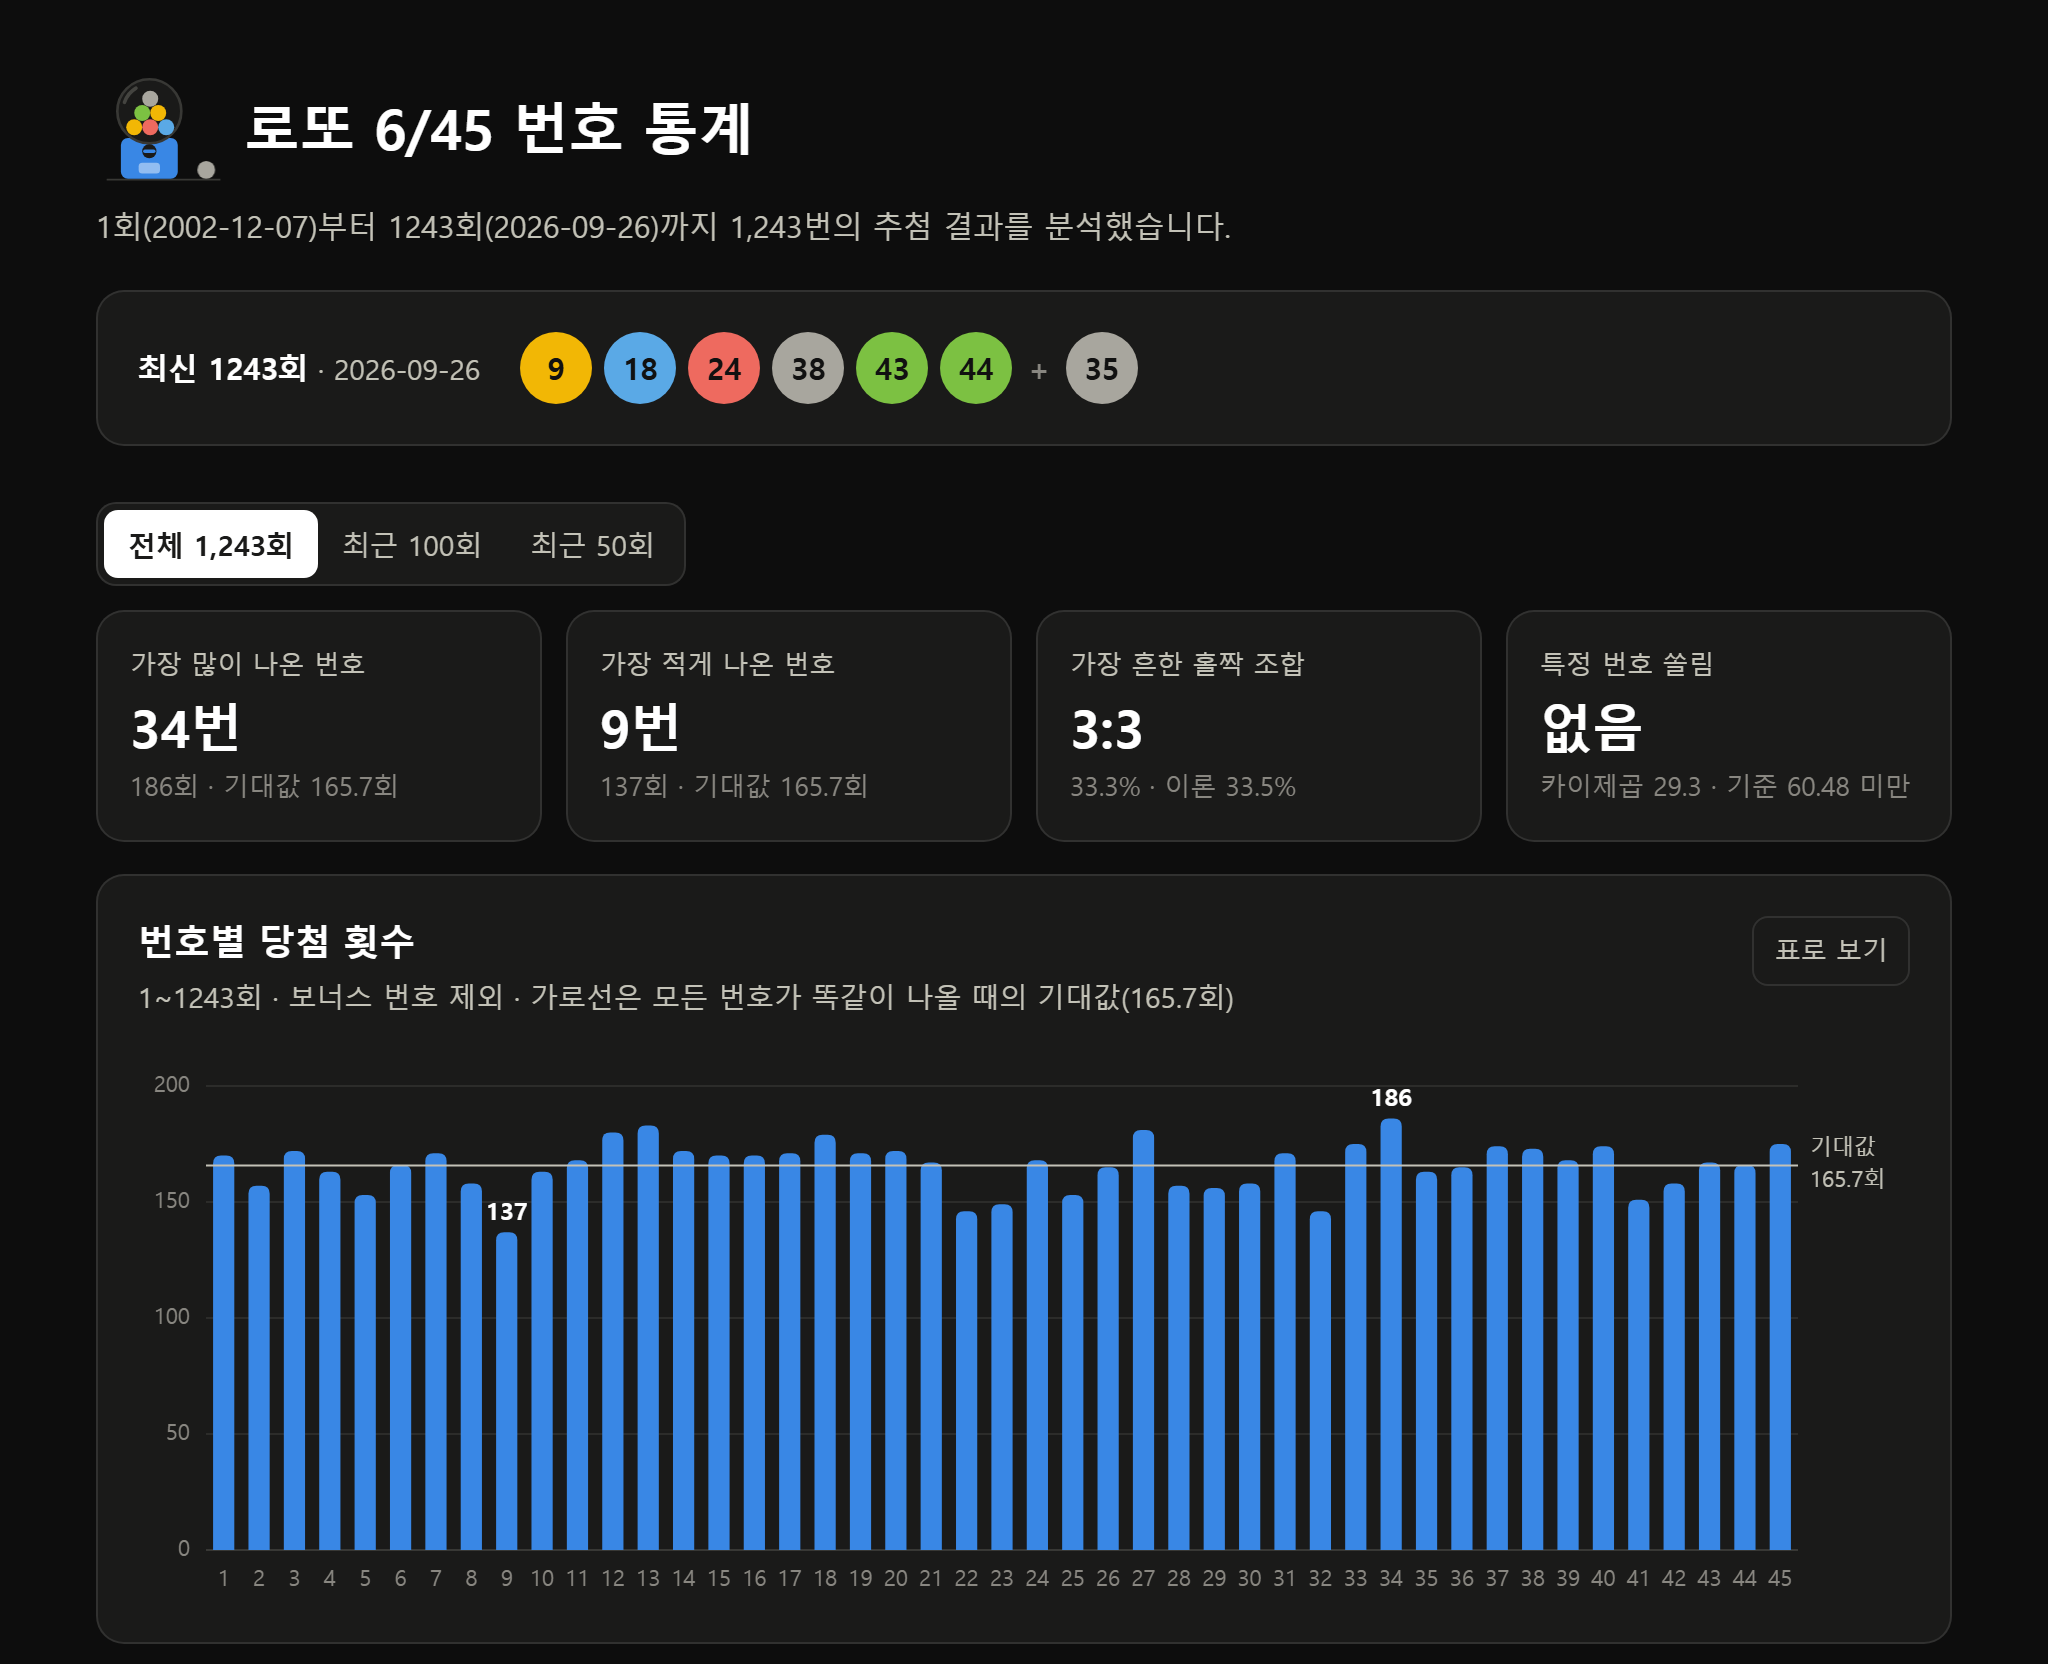
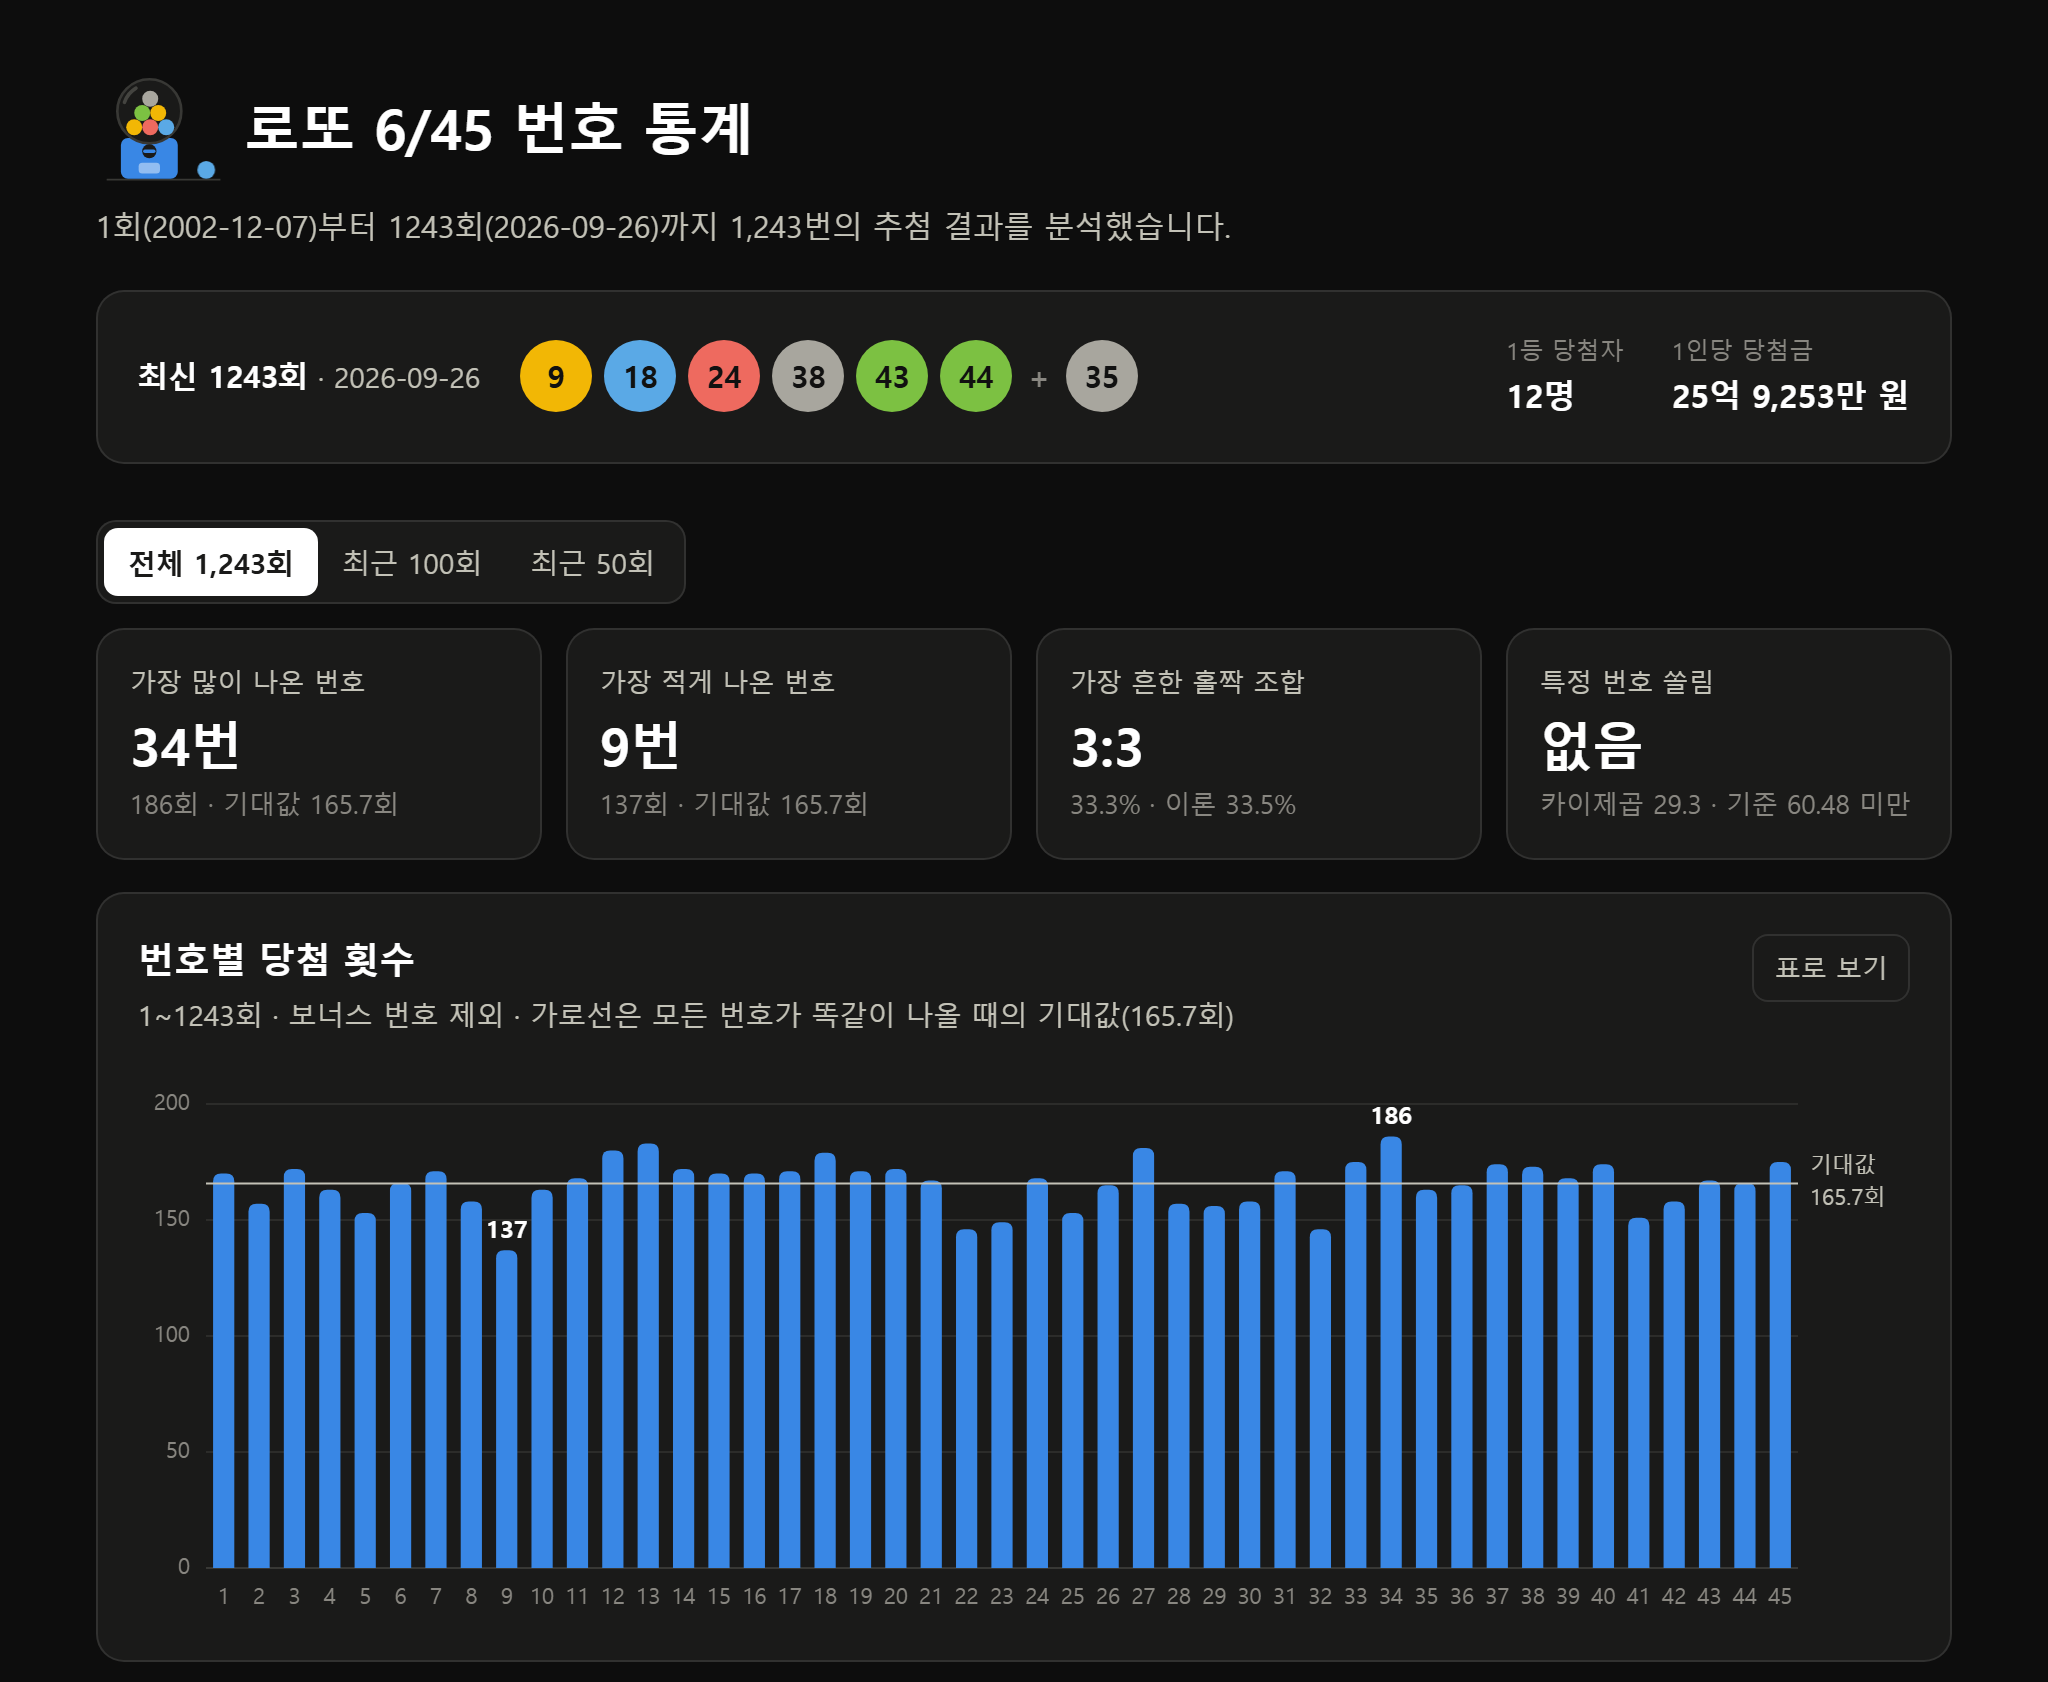
최신 회차 카드에 1등 당첨자 수와 1인당 당첨금 표시
- build_site.py: 최신 회차의 1등 당첨자 수, 1인당 당첨금을 페이지 데이터에 추가
- 금액은 '25억 9,253만 원'처럼 억·만 단위로 표시, 1등이 없으면 '없음 (다음 회차로 이월)'
- README 스크린샷과 기능 목록 갱신

diff --git a/docs/index.html b/docs/index.html
@@ -135,6 +135,9 @@
     .machine.play .m-knob, .machine.play .m-balls, .machine.play .m-out { animation: none; }
   }
   .plus { color: var(--muted); font-weight: 600; margin: 0 2px; }
+  .prize { display: flex; gap: 24px; margin: 0 0 0 auto; }
+  .prize dt { font-size: 12px; color: var(--muted); }
+  .prize dd { margin: 0; font-size: 16px; font-weight: 650; color: var(--ink); }
 
   /* 기간 필터 */
   .filter { display: flex; flex-wrap: wrap; align-items: center; gap: 8px 12px; margin: 28px 0 12px; }
@@ -229,6 +232,7 @@
 
   @media (max-width: 760px) {
     .tiles { grid-template-columns: repeat(2, minmax(0, 1fr)); }
+    .prize { margin-left: 0; }
   }
   @media (max-width: 520px) {
     h1 { font-size: 24px; }
@@ -270,6 +274,7 @@
     <div class="card latest">
       <div class="latest-label" id="latest-label"></div>
       <div class="balls" id="latest-balls"></div>
+      <dl class="prize" id="latest-prize"></dl>
     </div>
   </header>
 
@@ -328,7 +333,7 @@
 
 <div class="tip" id="tip" role="tooltip" hidden></div>
 
-<script id="data" type="application/json">{"first": {"no": 1, "date": "2002-12-07"}, "last": {"no": 1243, "date": "2026-09-26", "numbers": [9, 18, 24, 38, 43, 44], "bonus": 35}, "chi2Critical": 60.48, "oddEvenTheory": [0.0092, 0.0744, 0.2272, 0.3348, 0.2511, 0.0909, 0.0124], "gap": [9, 1, 13, 1, 30, 8, 2, 13, 0, 1, 3, 7, 2, 12, 8, 1, 17, 0, 3, 3, 7, 4, 2, 0, 10, 17, 19, 13, 7, 15, 1, 4, 4, 6, 9, 4, 6, 0, 8, 6, 1, 5, 0, 0, 19], "windows": {"all": {"draws": 1243, "freq": [170, 157, 172, 163, 153, 166, 171, 158, 137, 163, 168, 180, 183, 172, 170, 170, 171, 179, 171, 172, 167, 146, 149, 168, 153, 165, 181, 157, 156, 158, 171, 146, 175, 186, 163, 165, 174, 173, 168, 174, 151, 158, 167, 166, 175], "oddEven": [0.0137, 0.0668, 0.2261, 0.3331, 0.2655, 0.0796, 0.0153], "chi2": 29.3}, "100": {"draws": 100, "freq": [12, 12, 17, 12, 9, 14, 15, 14, 16, 10, 13, 13, 18, 7, 18, 17, 11, 14, 14, 13, 10, 11, 13, 16, 13, 12, 20, 15, 13, 12, 17, 13, 11, 10, 13, 13, 16, 18, 15, 12, 11, 13, 10, 13, 11], "oddEven": [0.02, 0.07, 0.23, 0.21, 0.36, 0.1, 0.01], "chi2": 24.3}, "50": {"draws": 50, "freq": [8, 7, 7, 6, 4, 5, 6, 6, 6, 6, 5, 5, 10, 3, 11, 8, 5, 8, 6, 7, 4, 6, 5, 9, 6, 5, 10, 8, 6, 7, 11, 7, 7, 6, 6, 7, 6, 10, 6, 5, 7, 7, 6, 8, 6], "oddEven": [0.0, 0.1, 0.26, 0.22, 0.32, 0.08, 0.02], "chi2": 21.0}}}</script>
+<script id="data" type="application/json">{"first": {"no": 1, "date": "2002-12-07"}, "last": {"no": 1243, "date": "2026-09-26", "numbers": [9, 18, 24, 38, 43, 44], "bonus": 35, "firstWinners": 12, "firstPrize": 2592525282}, "chi2Critical": 60.48, "oddEvenTheory": [0.0092, 0.0744, 0.2272, 0.3348, 0.2511, 0.0909, 0.0124], "gap": [9, 1, 13, 1, 30, 8, 2, 13, 0, 1, 3, 7, 2, 12, 8, 1, 17, 0, 3, 3, 7, 4, 2, 0, 10, 17, 19, 13, 7, 15, 1, 4, 4, 6, 9, 4, 6, 0, 8, 6, 1, 5, 0, 0, 19], "windows": {"all": {"draws": 1243, "freq": [170, 157, 172, 163, 153, 166, 171, 158, 137, 163, 168, 180, 183, 172, 170, 170, 171, 179, 171, 172, 167, 146, 149, 168, 153, 165, 181, 157, 156, 158, 171, 146, 175, 186, 163, 165, 174, 173, 168, 174, 151, 158, 167, 166, 175], "oddEven": [0.0137, 0.0668, 0.2261, 0.3331, 0.2655, 0.0796, 0.0153], "chi2": 29.3}, "100": {"draws": 100, "freq": [12, 12, 17, 12, 9, 14, 15, 14, 16, 10, 13, 13, 18, 7, 18, 17, 11, 14, 14, 13, 10, 11, 13, 16, 13, 12, 20, 15, 13, 12, 17, 13, 11, 10, 13, 13, 16, 18, 15, 12, 11, 13, 10, 13, 11], "oddEven": [0.02, 0.07, 0.23, 0.21, 0.36, 0.1, 0.01], "chi2": 24.3}, "50": {"draws": 50, "freq": [8, 7, 7, 6, 4, 5, 6, 6, 6, 6, 5, 5, 10, 3, 11, 8, 5, 8, 6, 7, 4, 6, 5, 9, 6, 5, 10, 8, 6, 7, 11, 7, 7, 6, 6, 7, 6, 10, 6, 5, 7, 7, 6, 8, 6], "oddEven": [0.0, 0.1, 0.26, 0.22, 0.32, 0.08, 0.02], "chi2": 21.0}}}</script>
 <script>
 (() => {
   const DATA = JSON.parse(document.getElementById('data').textContent);
@@ -341,6 +346,14 @@
   const fmt = (n) => n.toLocaleString('ko-KR');
   const pct = (x) => (x * 100).toFixed(1) + '%';
   const signed = (d) => (d >= 0 ? '+' : '−') + Math.abs(d).toFixed(1);
+
+  // 2592525282 → "25억 9,253만 원" (만 원 단위에서 반올림)
+  function won(amount) {
+    const man = Math.round(amount / 10000);
+    const eok = Math.floor(man / 10000);
+    const rest = man % 10000;
+    return [eok && `${fmt(eok)}억`, rest && `${fmt(rest)}만`].filter(Boolean).join(' ') + ' 원';
+  }
 
   function svgEl(tag, attrs, parent) {
     const node = document.createElementNS(SVG_NS, tag);
@@ -717,6 +730,17 @@
     for (const n of DATA.last.numbers) ball(n, balls);
     htmlEl('span', 'plus', '+', balls).setAttribute('aria-label', '보너스');
     ball(DATA.last.bonus, balls);
+
+    const prize = $('latest-prize');
+    const winners = DATA.last.firstWinners;
+    const prizeItems = winners > 0
+      ? [['1등 당첨자', `${fmt(winners)}명`], ['1인당 당첨금', won(DATA.last.firstPrize)]]
+      : [['1등 당첨자', '없음 (다음 회차로 이월)']];
+    for (const [term, value] of prizeItems) {
+      const item = htmlEl('div', '', null, prize);
+      htmlEl('dt', '', term, item);
+      htmlEl('dd', '', value, item);
+    }
 
     $('gap-sub').textContent = `${DATA.last.no}회 기준으로 가장 오랫동안 당첨번호에 나오지 않은 번호입니다.`;
     const gapList = $('gap-list');

diff --git a/site_template.html b/site_template.html
@@ -135,6 +135,9 @@
     .machine.play .m-knob, .machine.play .m-balls, .machine.play .m-out { animation: none; }
   }
   .plus { color: var(--muted); font-weight: 600; margin: 0 2px; }
+  .prize { display: flex; gap: 24px; margin: 0 0 0 auto; }
+  .prize dt { font-size: 12px; color: var(--muted); }
+  .prize dd { margin: 0; font-size: 16px; font-weight: 650; color: var(--ink); }
 
   /* 기간 필터 */
   .filter { display: flex; flex-wrap: wrap; align-items: center; gap: 8px 12px; margin: 28px 0 12px; }
@@ -229,6 +232,7 @@
 
   @media (max-width: 760px) {
     .tiles { grid-template-columns: repeat(2, minmax(0, 1fr)); }
+    .prize { margin-left: 0; }
   }
   @media (max-width: 520px) {
     h1 { font-size: 24px; }
@@ -270,6 +274,7 @@
     <div class="card latest">
       <div class="latest-label" id="latest-label"></div>
       <div class="balls" id="latest-balls"></div>
+      <dl class="prize" id="latest-prize"></dl>
     </div>
   </header>
 
@@ -341,6 +346,14 @@
   const fmt = (n) => n.toLocaleString('ko-KR');
   const pct = (x) => (x * 100).toFixed(1) + '%';
   const signed = (d) => (d >= 0 ? '+' : '−') + Math.abs(d).toFixed(1);
+
+  // 2592525282 → "25억 9,253만 원" (만 원 단위에서 반올림)
+  function won(amount) {
+    const man = Math.round(amount / 10000);
+    const eok = Math.floor(man / 10000);
+    const rest = man % 10000;
+    return [eok && `${fmt(eok)}억`, rest && `${fmt(rest)}만`].filter(Boolean).join(' ') + ' 원';
+  }
 
   function svgEl(tag, attrs, parent) {
     const node = document.createElementNS(SVG_NS, tag);
@@ -717,6 +730,17 @@
     for (const n of DATA.last.numbers) ball(n, balls);
     htmlEl('span', 'plus', '+', balls).setAttribute('aria-label', '보너스');
     ball(DATA.last.bonus, balls);
+
+    const prize = $('latest-prize');
+    const winners = DATA.last.firstWinners;
+    const prizeItems = winners > 0
+      ? [['1등 당첨자', `${fmt(winners)}명`], ['1인당 당첨금', won(DATA.last.firstPrize)]]
+      : [['1등 당첨자', '없음 (다음 회차로 이월)']];
+    for (const [term, value] of prizeItems) {
+      const item = htmlEl('div', '', null, prize);
+      htmlEl('dt', '', term, item);
+      htmlEl('dd', '', value, item);
+    }
 
     $('gap-sub').textContent = `${DATA.last.no}회 기준으로 가장 오랫동안 당첨번호에 나오지 않은 번호입니다.`;
     const gapList = $('gap-list');

diff --git a/build_site.py b/build_site.py
@@ -47,6 +47,8 @@ def main():
             "date": last.draw_date,
             "numbers": [int(last[col]) for col in NUM_COLS],
             "bonus": int(last.bonus),
+            "firstWinners": int(last.first_winners),  # 1등 당첨자 수
+            "firstPrize": int(last.first_prize),      # 1등 1인당 당첨금(원)
         },
         "chi2Critical": CHI2_CRITICAL,
         "oddEvenTheory": [round(x, 4) for x in theory],

diff --git a/README.md b/README.md
@@ -14,6 +14,7 @@
 
 ## 웹페이지 기능
 
+- **최신 회차**: 당첨번호와 함께 1등 당첨자 수, 1인당 당첨금을 보여줍니다.
 - **분석 기간 선택**: 전체, 최근 100회, 최근 50회 중에서 고르면 아래 통계가 모두 그 기간 기준으로 바뀝니다.
 - **번호별 당첨 횟수**: 1~45번의 당첨 횟수를 기대값 기준선과 함께 보여줍니다. 막대에 마우스를 올리면 횟수가 나오고, 표로도 볼 수 있습니다.
 - **홀짝 조합**: 회차별 홀수·짝수 조합의 실제 비율을 이론 확률(초기하분포)과 비교합니다.
